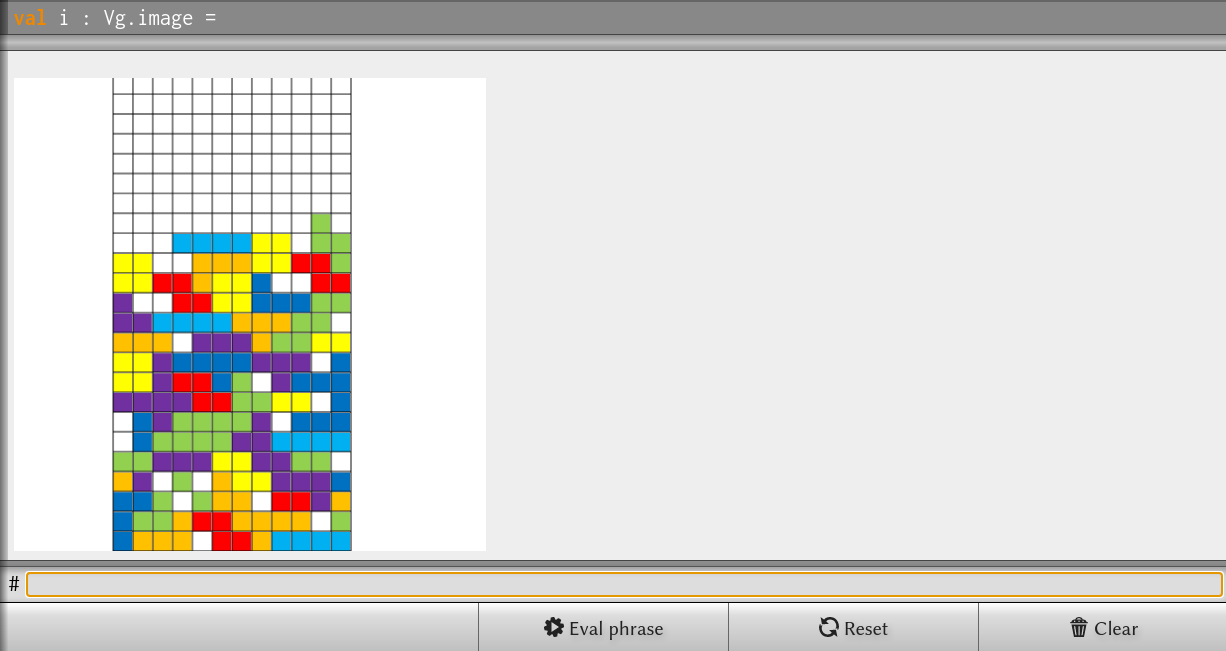
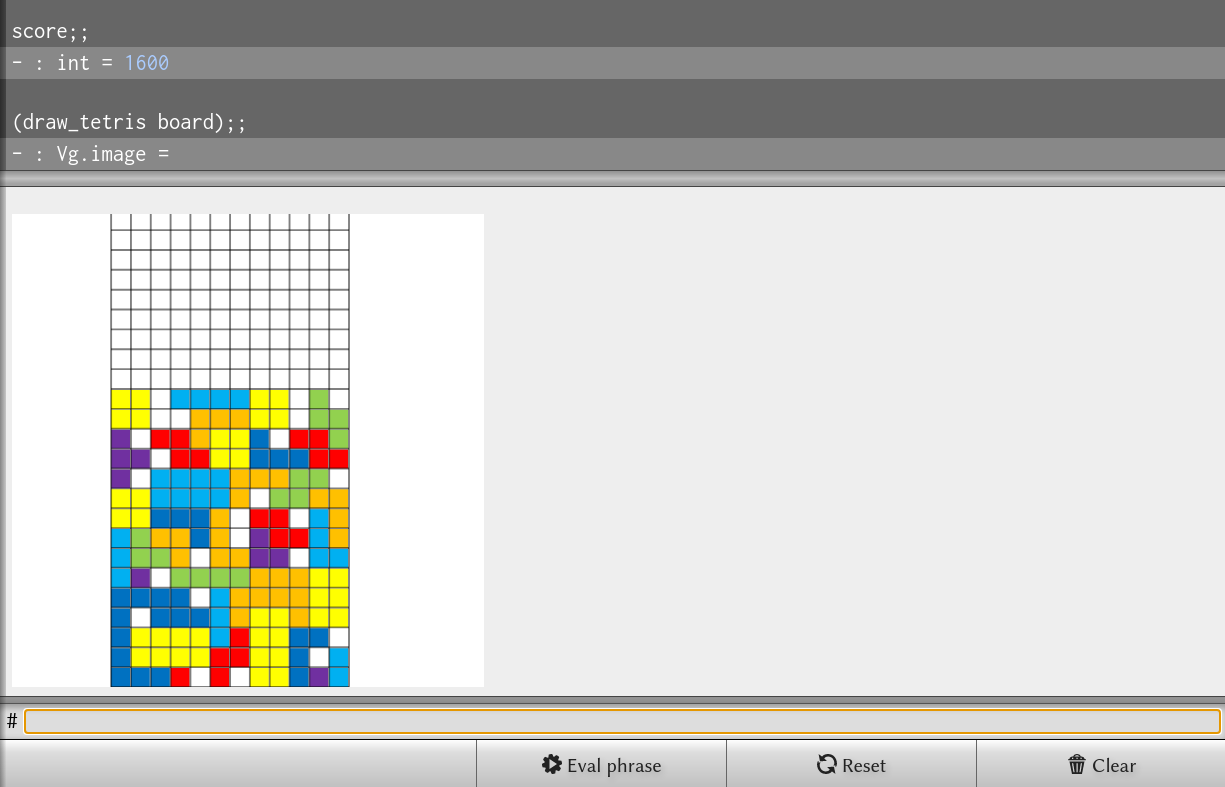
update jfp12 exo

diff --git a/samples/jfp12_fr/descr.md b/samples/jfp12_fr/descr.md
@@ -295,7 +295,7 @@ contraire, la partie est terminée.
 La pièce est alors lâchée où l’a décidé le joueur. Si on ne peut pas lâcher la pièce, alors la partie est terminée.
 
 Ensuite, il se passe la magie de Tetris : si une ligne du plateau est remplie de blocs non vides alors elle est éliminée du plateau et toutes les pièces au-dessus descendent d’une ligne. Si quatre lignes
-contiguës sont éliminées, le joueur gagne 800 points : c’est un Tetris! Si la pièce précédente avait déjà donné lieu à un Tetris, alors il gagne même 1200 points! Sinon, chaque ligne remporte 100.
+contiguës sont éliminées, le joueur gagne 800 points : c’est un Tetris! Sinon, chaque ligne remporte 100.
 
 Réaliser la fonction 
 
@@ -324,22 +324,22 @@ Par exemple
 ```OCaml
   let s = 231;;
 
-  let l = [(1,8,2);(3,7,0);(5,4,2);(3,1,2);(4,1,2);(4,10,3);(7,8,3);(7,6,3);(5,3,2);(2,0,3);(1,8,2);
-    (6,4,0);(1,0,2);(3,7,0);(5,0,2);(7,10,3);(4,5,2);(6,3,0);(3,9,0);(6,1,1);(6,7,1);(1,3,2);(1,4,2);
-    (5,0,3);(6,9,2);(4,2,3);(5,7,2);(2,0,3);(3,10,1);(3,5,1);(4,3,3);(6,8,0);(6,0,2);(7,6,3);(3,4,1);
-    (3,0,0);(2,9,0);(4,9,2);(6,2,0);(6,7,1);(7,5,3);(4,0,2);(7,3,3);(3,9,0);(3,0,0);(1,5,2);(1,8,2);
-    (6,6,1);(4,4,2);(4,2,2);(2,9,2);(1,5,2);(2,1,3);(7,10,3);(3,4,0);(7,8,3);(6,2,1);(6,0,3);(4,6,3);
-    (2,9,0);(5,3,2);(6,1,1);(6,7,0);(2,3,0);(2,9,0);(7,0,3);(4,7,2);(6,1,0);(2,4,0);(3,0,0);(7,10,3);
-    (3,7,0);(6,4,2);(1,1,2);(4,9,2);(3,6,0);(1,2,2);(6,0,3);(2,7,2);(7,5,3);(5,2,2);(5,9,2);(7,0,3);
-    (3,4,0);(7,7,3);(1,3,2);(4,10,3)];;
+  let l = [(7,8,2);(3,7,0);(4,4,2);(5,1,2);(1,1,2);(2,10,3);(4,8,3);(7,6,3);(5,3,2);(7,0,3);(6,8,2);
+          (1,4,0);(6,0,2);(7,7,0);(2,0,2);(2,10,3);(5,5,2);(7,3,0);(7,9,0);(7,1,1);(3,7,1);(2,3,2);
+          (1,4,2);(2,0,3);(3,9,2);(7,2,3);(1,7,2);(2,0,3);(7,10,1);(4,5,1);(3,3,3);(4,8,0);(6,0,2);
+          (7,6,3);(7,4,1);(1,0,0);(3,9,0);(7,9,2);(1,2,0);(4,7,1);(3,5,3);(7,0,2);(3,3,3);(2,9,0);
+          (1,0,0);(7,5,2);(3,8,2);(3,6,1);(4,4,2);(7,2,2);(3,9,2);(4,5,2);(2,1,3);(2,10,3);(2,4,0);
+          (1,8,3);(5,2,1);(4,0,3);(2,6,3);(1,9,0);(4,3,2);(3,1,1);(4,7,0);(2,3,0);(4,9,0);(7,0,3);
+          (3,7,2);(1,1,0);(6,4,0);(3,0,0);(2,10,3);(5,7,0);(3,4,2);(1,1,2);(4,9,2);(3,6,0);(1,2,2);
+          (6,0,3);(2,7,2);(7,5,3);(5,2,2);(5,9,2);(7,0,3);(3,4,0);(7,7,3);(1,3,2);(4,10,3)];;
 
-  let (plateau,score) = (calcul_score s l);;
+  let (board,score) = (calcul_score s l);;
 
   score;;
 
-  int = 1500
+  int = 1600
 
-  (draw_tetris plateau);;
+  (draw_tetris board);;
 ```
 
 <div>

diff --git a/samples/jfp12_en/descr.md b/samples/jfp12_en/descr.md
@@ -293,7 +293,7 @@ We have now all the things needed to pllay Tetris. Knowing an integer S: the seq
 Before playing each piece, we check that each of the four first lines are empty : otherwise the game ends.
 The piece is then dropped on the column chosen by the player. If we can't drop it, the game ends.
 
-Then, there's the Tetris magic : if a line of the board is fill with non empty blocks then this line vanishes and all the blocks from above drop by a line. If four contiguous lines vanishe at the same time, the player get 800 points : it's a Tetris ! If the previous piece was already used for a Tetris, then he gets 1200 points ! Otherwise, each line gives 100 points to the player.
+Then, there's the Tetris magic : if a line of the board is fill with non empty blocks then this line vanishes and all the blocks from above drop by a line. If four contiguous lines vanishe at the same time, the player get 800 points : it's a Tetris ! Otherwise, each line gives 100 points to the player.
 
 Write the function 
 
@@ -333,7 +333,7 @@ For example
 
   score;;
 
-  int = 1500
+  int = 1600
 
   (draw_tetris board);;
 ```

diff --git a/HOWTO.md b/HOWTO.md
@@ -77,7 +77,7 @@ Since CompareVgImages will only be used to correct easy-check exercices, it migh
     # need to do a first make to add images for the exercice description
     make
     # ^C
-    cp -r exercises/CompareVgImages/samples/images/* www/icons/.
+    cp -r exercises/CompareVgImages/samples/images/ www/icons/.
     # the real test this time
     make
     $BROWSER localhost:8080
